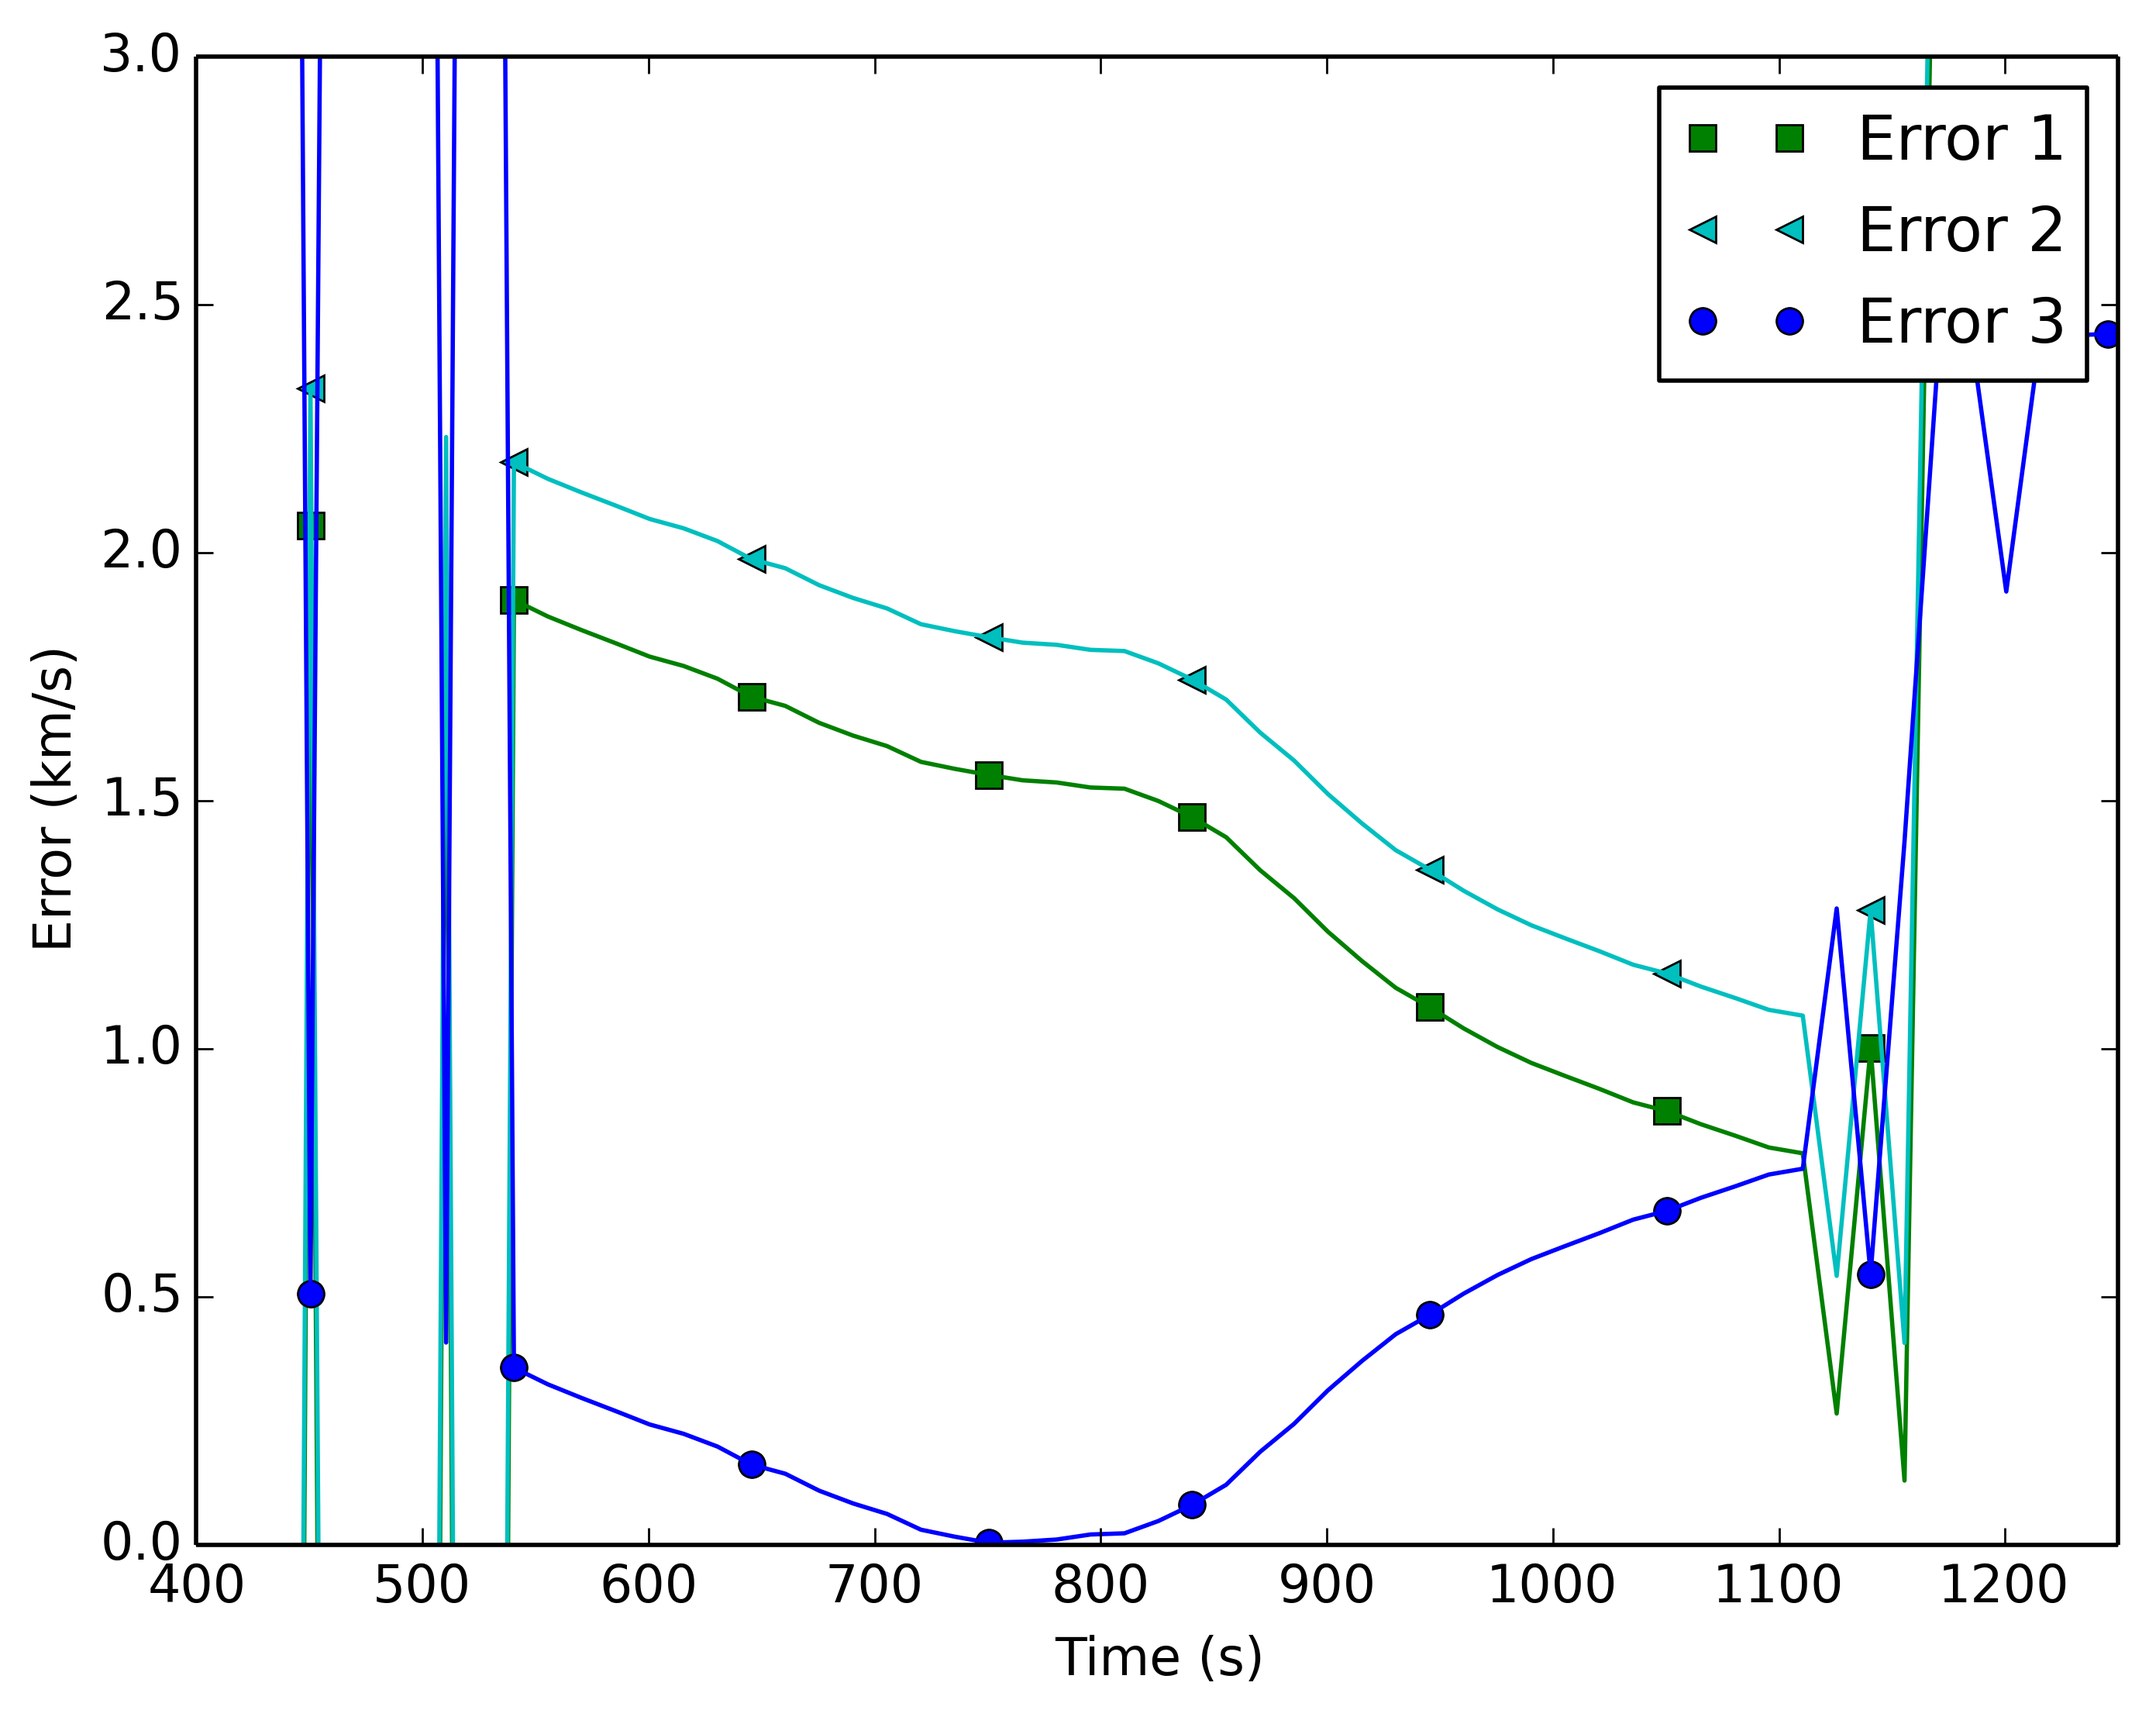
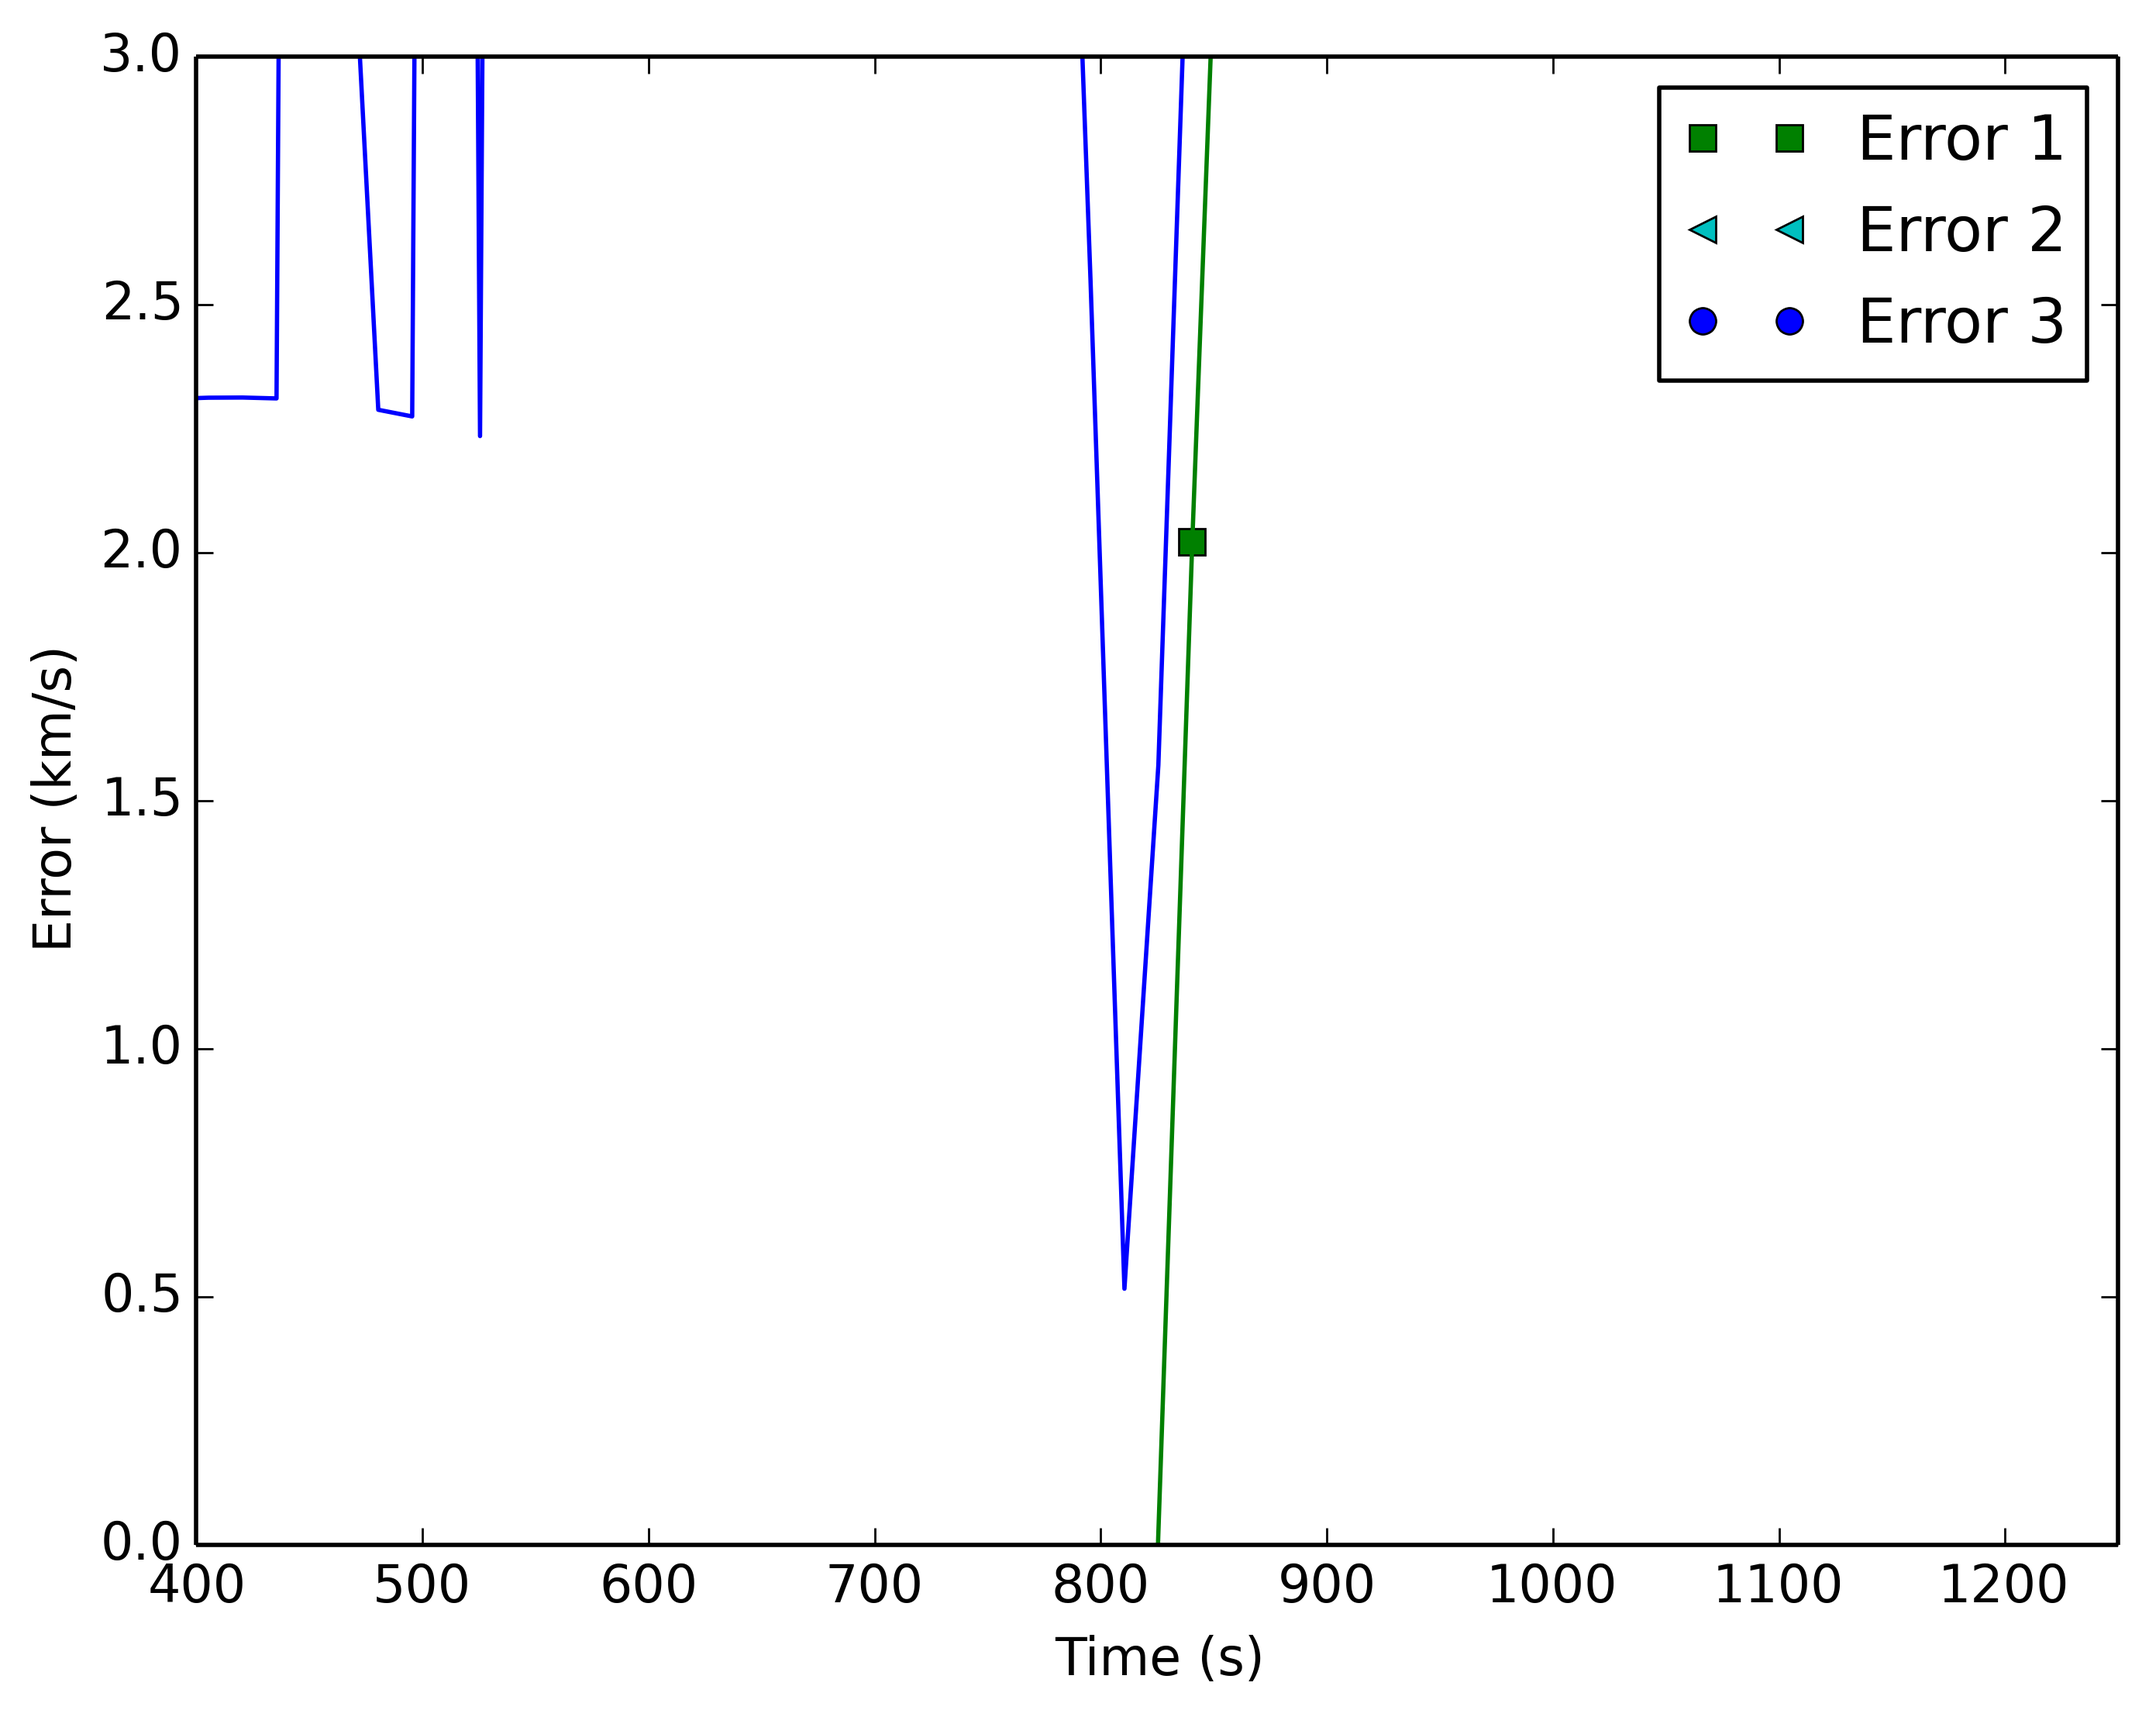
Ok Mithnun #ibelieve

diff --git a/rangerate.py b/rangerate.py
@@ -6,6 +6,7 @@ Input: Max Frequency over time matrix
 Output: Range rate over time matrix
 @author: Maarten Schild, Project A6
 """
+import numpy as np
 #Add variable name of maxfrequency file here#
 speedoflight = 299792.458 #km/s
 
@@ -13,12 +14,12 @@ speedoflight = 299792.458 #km/s
 #Inputs are received frequency(Hz), transmitted frequency(Hz) and speed of light(m/s)
 #Output is difference in velocity (m/s)
 def calcrangerate(freq,carrierfreq,speedoflight):
-    deltafreq = freq - carrierfreq
-    deltav = (deltafreq * speedoflight)/carrierfreq
-    # deltafreqsquare = freq**2 - carrierfreq**2
-    # squareterm = deltafreqsquare/(speedoflight**2)
-    # linearterm = (freq**2)/speedoflight
-    # deltav = (-2*linearterm+sqrt(4*(linearterm**2)-4*squareterm*deltafreqsquare))/(2*squareterm)
+    #deltafreq = freq - carrierfreq
+    #deltav = (deltafreq * speedoflight)/carrierfreq
+    deltafreqsquare = freq**2 - carrierfreq**2
+    squareterm = deltafreqsquare/(speedoflight**2)
+    linearterm = (freq**2)/speedoflight
+    deltav = (-2*linearterm+np.sqrt(4*(linearterm**2)-4*squareterm*deltafreqsquare))/(2*squareterm)
         
     return deltav
     
